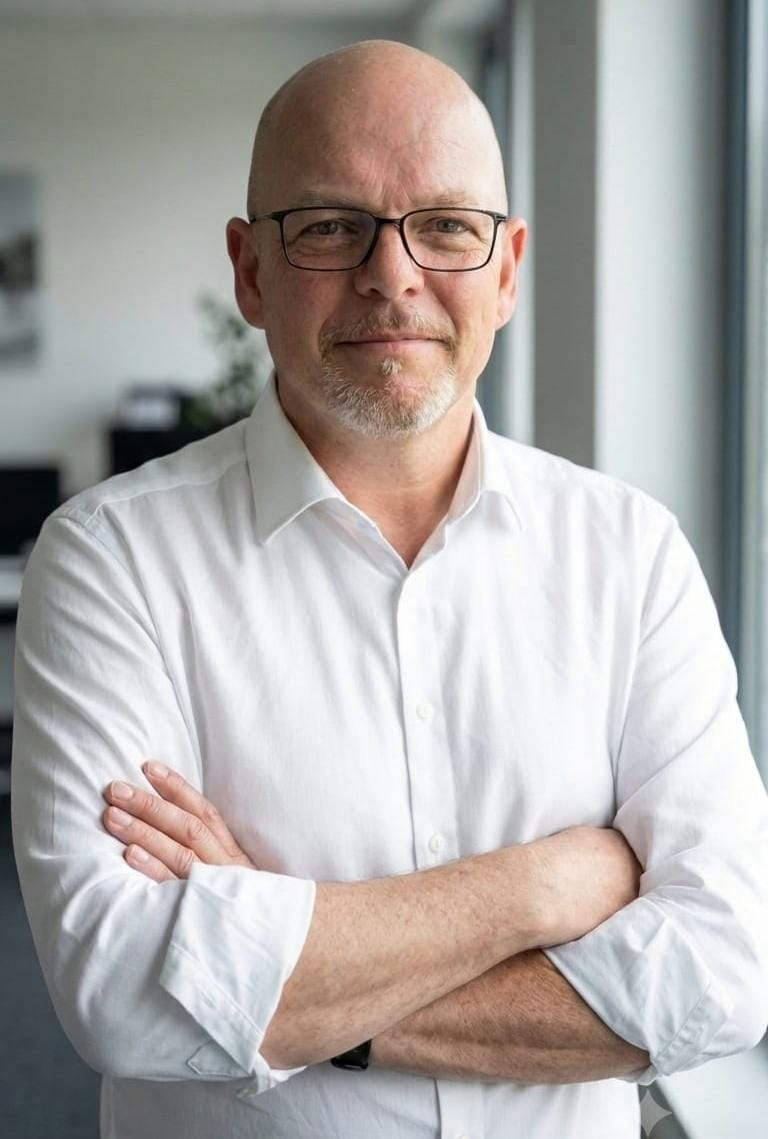
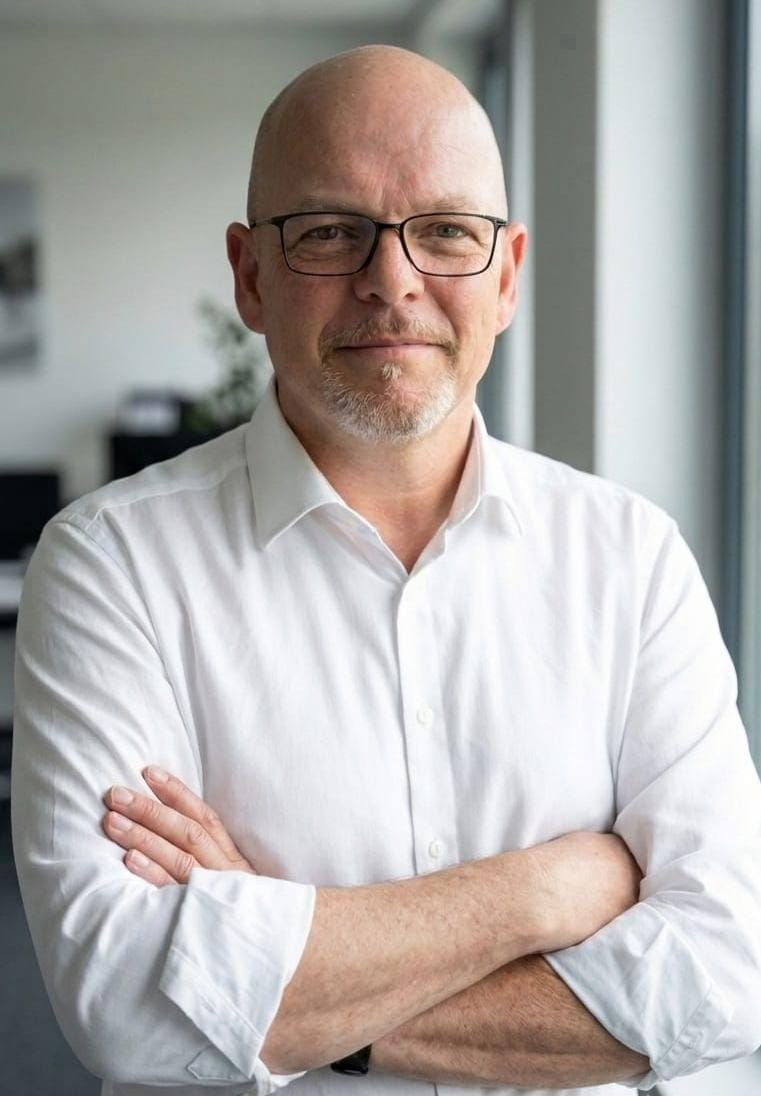
Add files via upload

diff --git a/index.html b/index.html
@@ -44,14 +44,23 @@
         </div>
     </div>
 
-    <!-- كود الجافا سكريبت لتشغيل الزرار والأيقونات -->
+   <!-- كود الجافا سكريبت المطور لتشغيل الزرار وعمل سكرول تلقائي -->
     <script>
         const contactBtn = document.getElementById('contact-btn');
         const socialIcons = document.getElementById('social-icons');
 
         contactBtn.addEventListener('click', (e) => {
             e.stopPropagation();
+            
+            // 1. تفعيل فتح أو إغلاق الأيقونات
             socialIcons.classList.toggle('show');
+            
+            // 2. إذا انفتحت الأيقونات، اعمل سكرول داون بنعومة عشان تظهر بالكامل
+            if (socialIcons.classList.contains('show')) {
+                setTimeout(() => {
+                    socialIcons.scrollIntoView({ behavior: 'smooth', block: 'center' });
+                }, 100); // تأخير بسيط جداً بمقدار 100 مللي ثانية لينتهي تأثير الأنميشن الخاص بالـ CSS أولاً
+            }
         });
 
         document.addEventListener('click', () => {

diff --git a/style.css b/style.css
@@ -32,11 +32,14 @@ body {
     left: 20px;
     z-index: 10;
 }
-
 .logo-box img {
     width: 85px;
     height: auto;
-    filter: invert(41%) sepia(82%) saturate(2453%) hue-rotate(176deg) brightness(96%) contrast(101%);
+    /* الفلتر ده بيصفر الألوان ويخلي اللوجو أبيض منور وصريح 100% */
+    filter: brightness(0) invert(1);
+    background-color: transparent; /* تأكيد عشان لو في بقايا من الكود اللي فات */
+    -webkit-mask: none;
+    mask: none;
 }
 
 .profile-header {